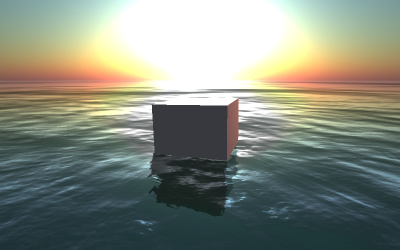
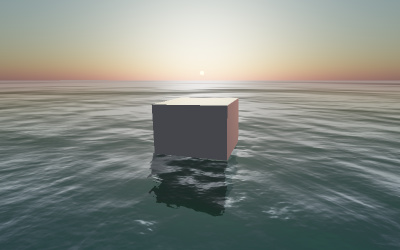
Water: Removed outputEncoding and toneMapping checks (#21418)

diff --git a/examples/jsm/objects/Water.js b/examples/jsm/objects/Water.js
@@ -1,12 +1,10 @@
 import {
 	Color,
 	FrontSide,
-	LinearEncoding,
 	LinearFilter,
 	MathUtils,
 	Matrix4,
 	Mesh,
-	NoToneMapping,
 	PerspectiveCamera,
 	Plane,
 	RGBFormat,
@@ -302,24 +300,6 @@ var Water = function ( geometry, options ) {
 		eye.setFromMatrixPosition( camera.matrixWorld );
 
 		// Render
-
-		if ( renderer.outputEncoding !== LinearEncoding ) {
-
-			console.warn( 'THREE.Water: WebGLRenderer must use LinearEncoding as outputEncoding.' );
-			scope.onBeforeRender = function () {};
-
-			return;
-
-		}
-
-		if ( renderer.toneMapping !== NoToneMapping ) {
-
-			console.warn( 'THREE.Water: WebGLRenderer must use NoToneMapping as toneMapping.' );
-			scope.onBeforeRender = function () {};
-
-			return;
-
-		}
 
 		var currentRenderTarget = renderer.getRenderTarget();
 

diff --git a/examples/js/objects/Water.js b/examples/js/objects/Water.js
@@ -283,24 +283,6 @@ THREE.Water = function ( geometry, options ) {
 
 		// Render
 
-		if ( renderer.outputEncoding !== THREE.LinearEncoding ) {
-
-			console.warn( 'THREE.Water: WebGLRenderer must use LinearEncoding as outputEncoding.' );
-			scope.onBeforeRender = function () {};
-
-			return;
-
-		}
-
-		if ( renderer.toneMapping !== THREE.NoToneMapping ) {
-
-			console.warn( 'THREE.Water: WebGLRenderer must use NoToneMapping as toneMapping.' );
-			scope.onBeforeRender = function () {};
-
-			return;
-
-		}
-
 		var currentRenderTarget = renderer.getRenderTarget();
 
 		var currentXrEnabled = renderer.xr.enabled;

diff --git a/examples/webgl_shaders_ocean.html b/examples/webgl_shaders_ocean.html
@@ -40,6 +40,7 @@
 				renderer = new THREE.WebGLRenderer();
 				renderer.setPixelRatio( window.devicePixelRatio );
 				renderer.setSize( window.innerWidth, window.innerHeight );
+				renderer.toneMapping = THREE.ACESFilmicToneMapping;
 				container.appendChild( renderer.domElement );
 
 				//
